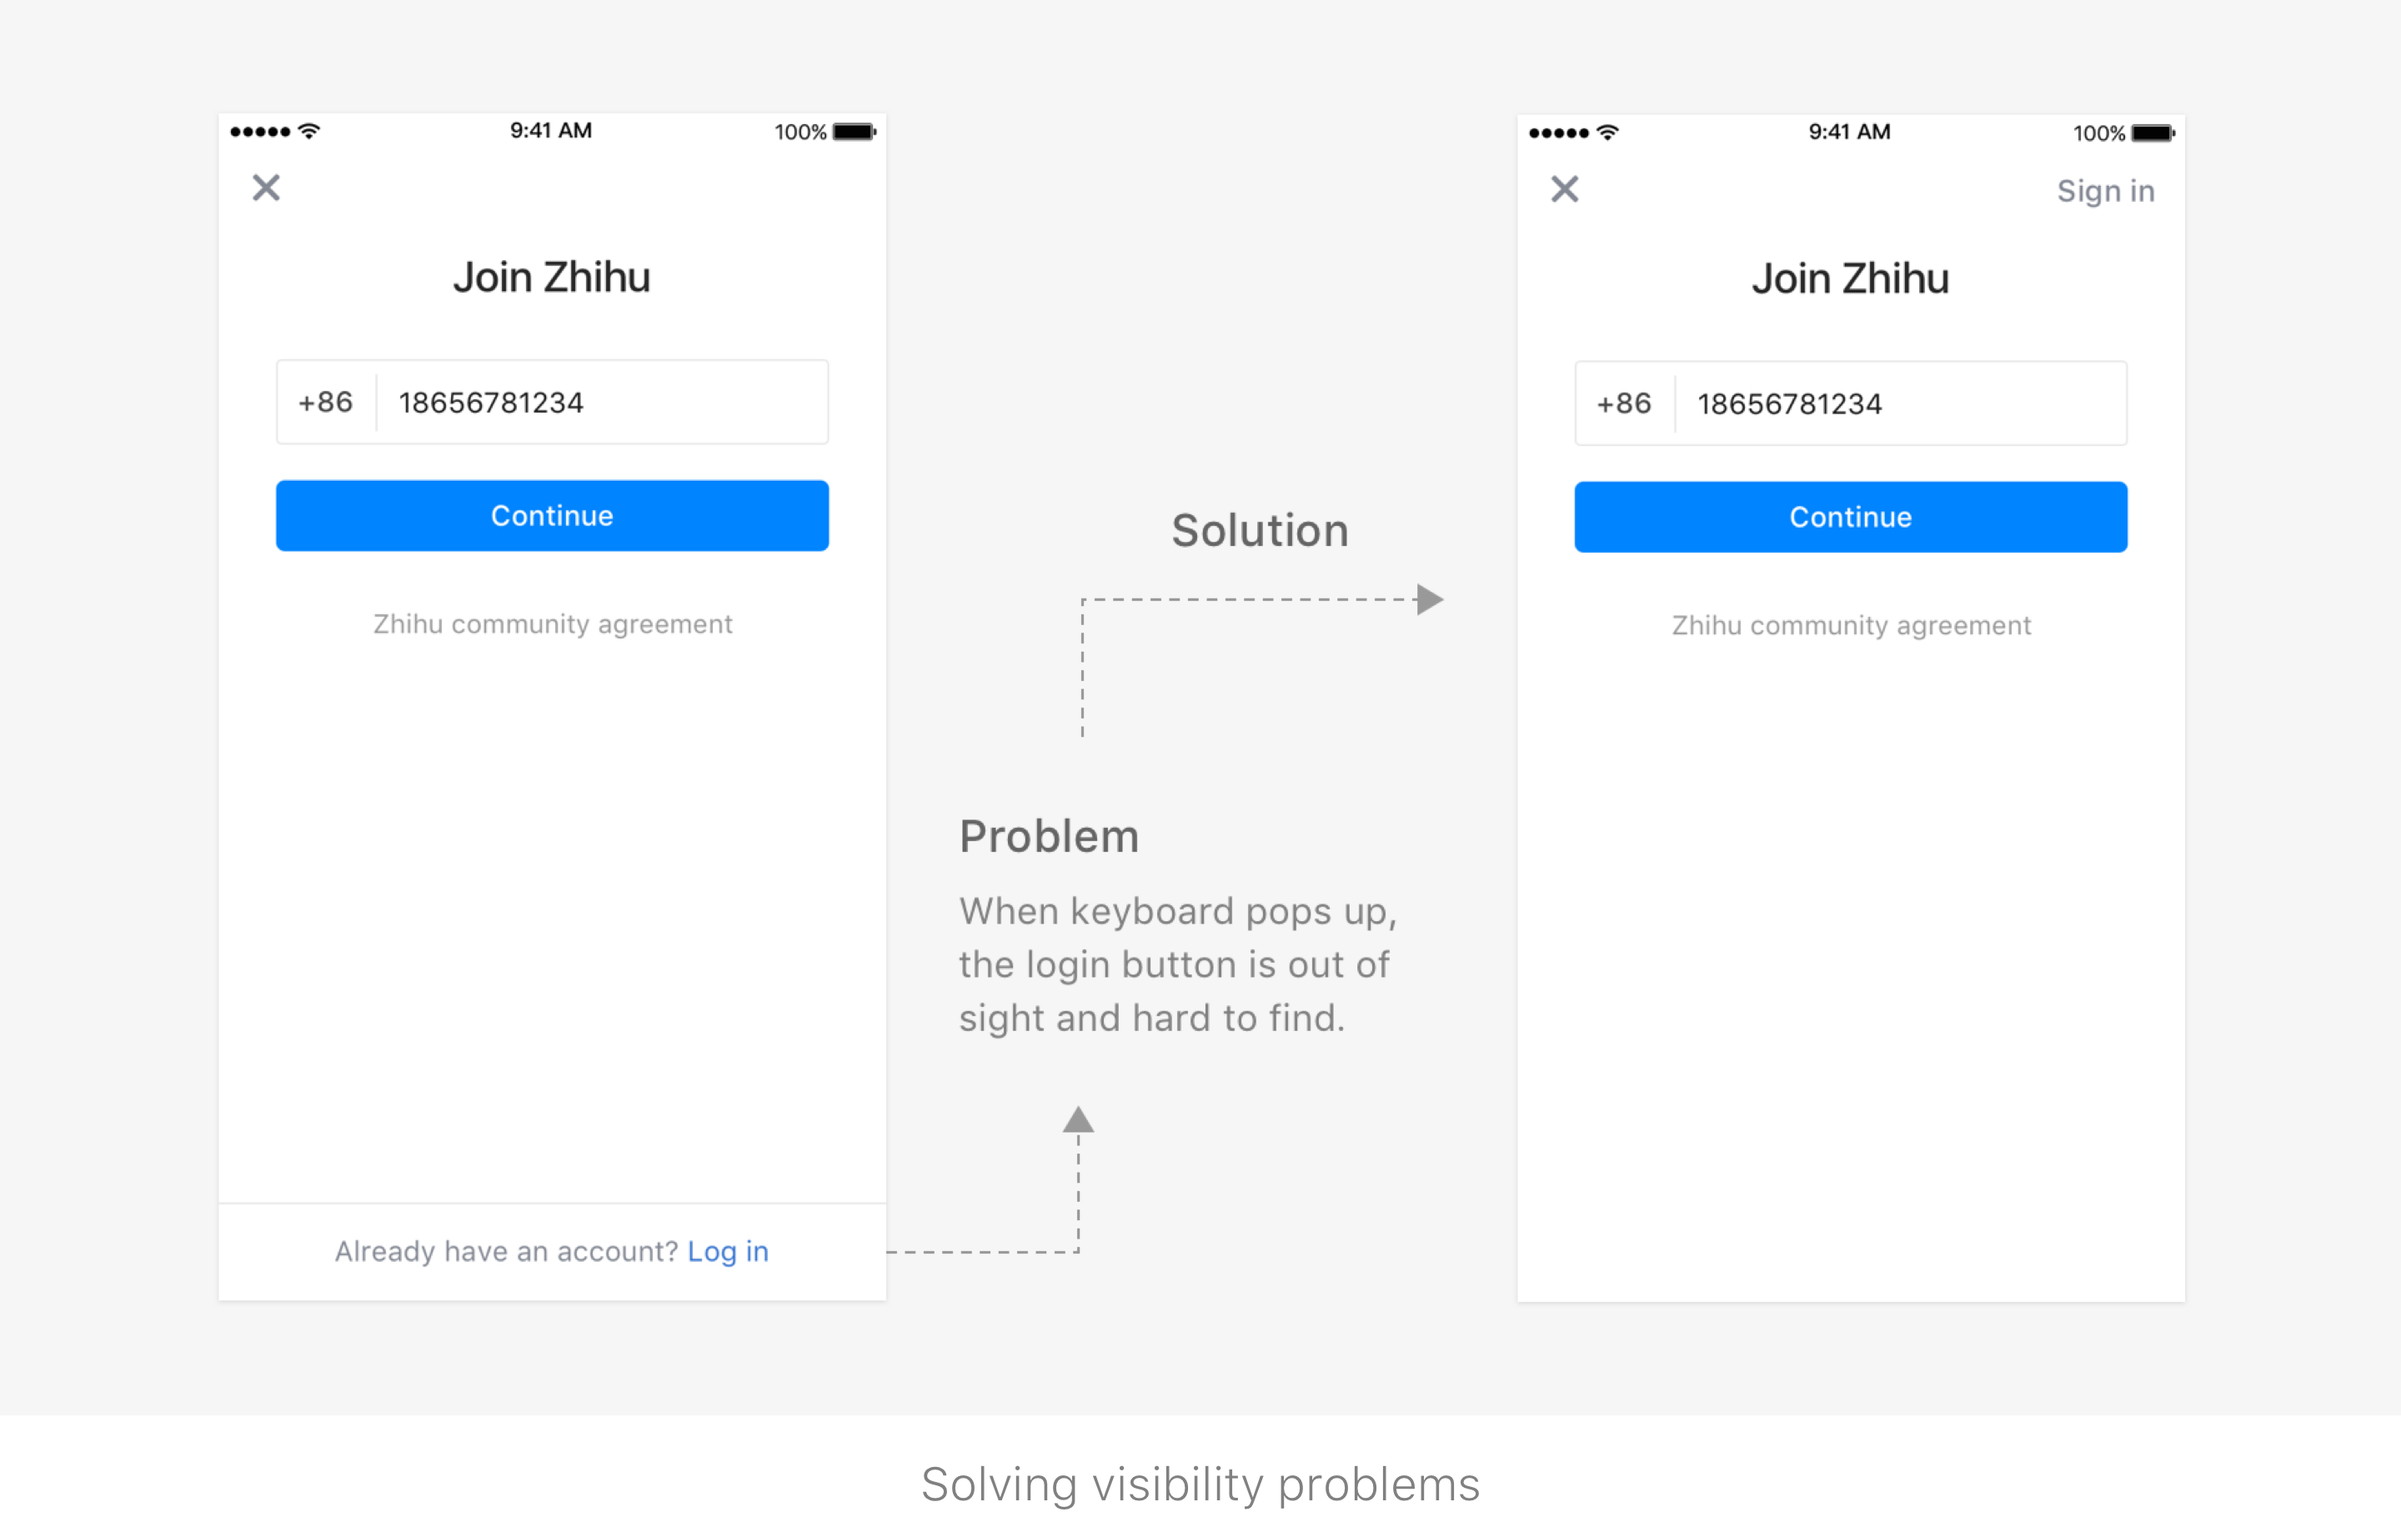
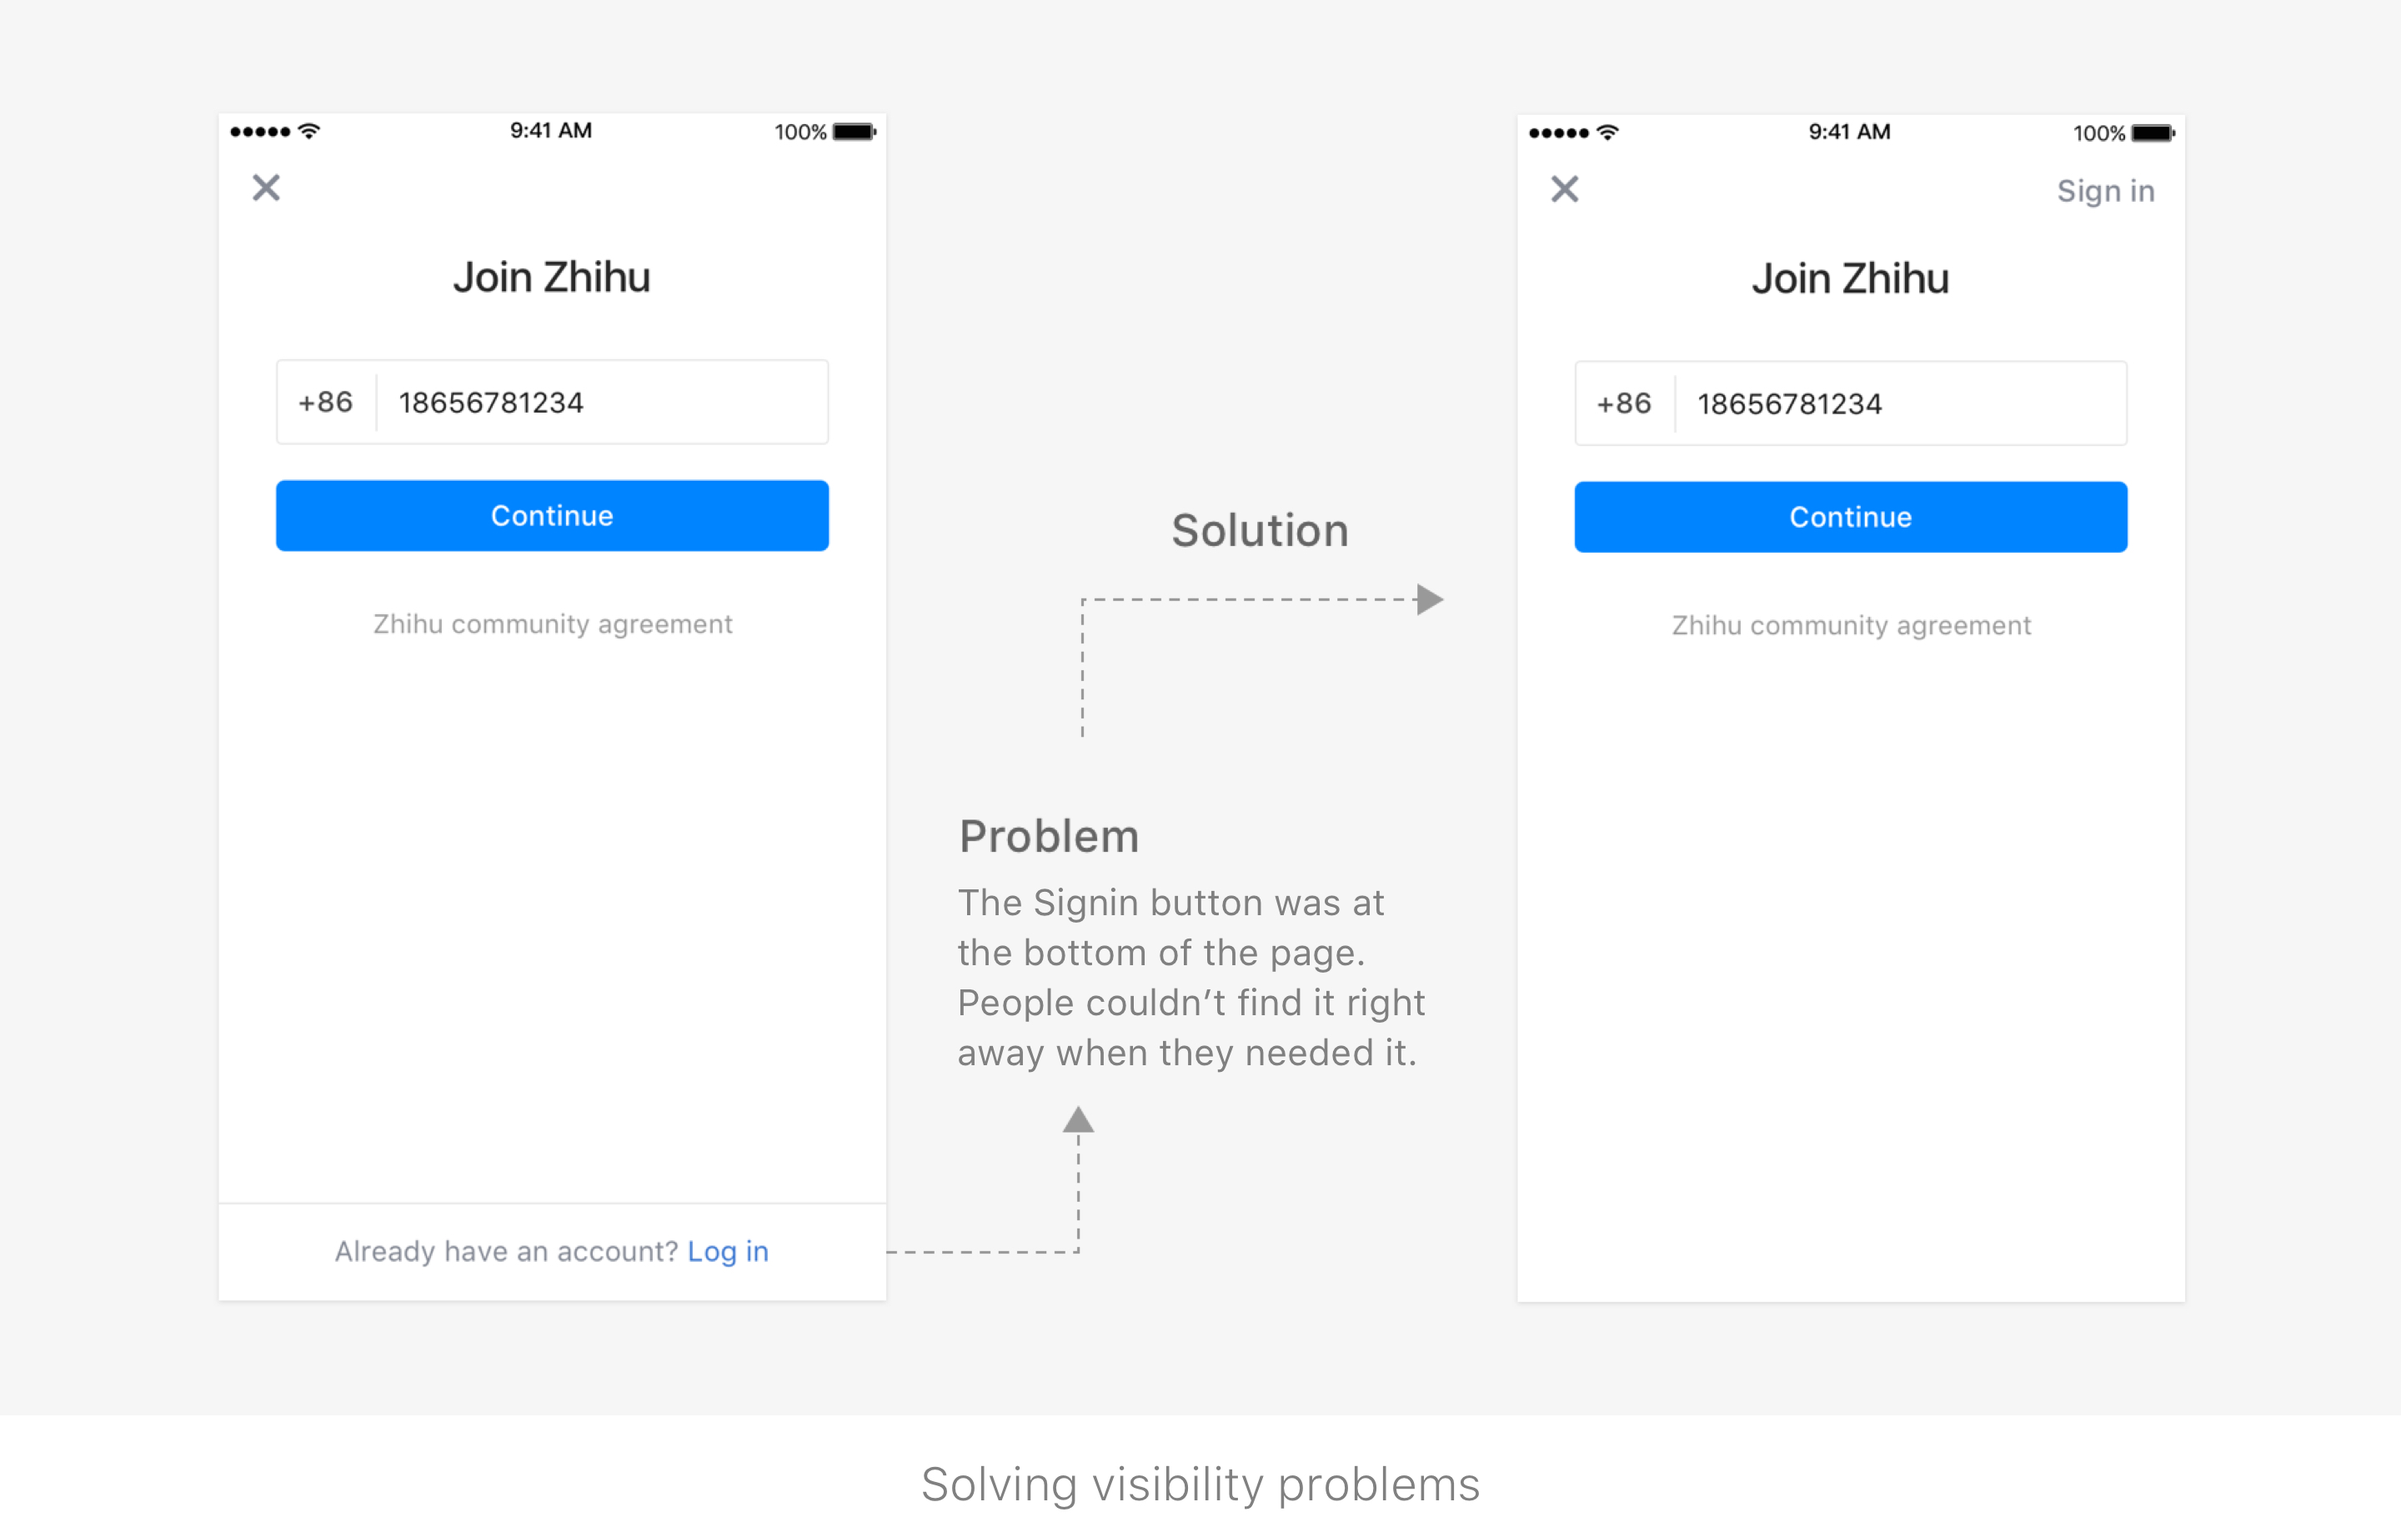
update content

Changed region(s): [[0.4062, 0.5873, 0.5938, 0.711]]

diff --git a/_posts/2018-10-2-signup.md b/_posts/2018-10-2-signup.md
@@ -25,8 +25,20 @@ Before jumping into designing, I analyzed how other apps designed their sign up 
 - Using multi-step sign up has positive impact on increasing conversion rate, because people feel less overwhelmed when the design walks them through the process.
 
 ## Design Decisions
+### Sign up: One Task at One Time
 Informed by the findings in competitive analysis phase, we ran a fast A/B test to validate our assumptions. The result indicated that registration in one step with multiple forms did suffer higher bounce rate compared to registration in multiple steps. Thus we decided to break down sign-up into three steps.
 ![image](/imgs/signup/decision.jpg)
+![image](/imgs/signup/decision1.jpg)
+
+### Sign in: Pull the easiest way out
+SMS verification is the easiest and most popular way for people to sign in, but in existing design, the choice was buried in a bottom sheet. To solve the problem, I decided to use two tabs to put both ways.
+![image](/imgs/signup/decision2.jpg)
+
+### Updating the Entire Flow
+![image](/imgs/signup/flow_chart.jpg)
+
+## Design Solutions
+![image](/imgs/signup/all.jpg)
 
 ### Less Click times
 Previously, there were 5 clicks away to sign up. Now it only needs 2 clicks throughout the process. The multi-step design is more efficient even though the procedure seems longer. People spend less time finishing signing up.
@@ -37,11 +49,8 @@ I used the Complexion Reduction design language to focus on the key task of each
 ![image](/imgs/signup/unified_structure.jpg)
 
 ### Be Mindful of Visibility
-During user testing I realized a detail. The original sign in button was placed on the bottom of the page, but since the keyboard was displayed by default when user entered this page, the button was invisible. In next iteration, I moved the sign in button to the top right corner to make every important elements visible.
+During user testing I realized a problem. The original sign in button was placed on the bottom of the page, so users couldn't find it right away when they needed it. In the next iteration, I moved the sign in button to the top right corner to make every important elements more visible.
 ![image](/imgs/signup/visibility.jpg)
-
-### Consider Every Possible Situation
-![image](/imgs/signup/all.jpg)
 
 ## The Outcome
 Our main metric is the overall conversion rate between opening the page and signing up / signing in successfully. After we launched the new design with A/B test, we found that **the sign up conversion rate increased by 8%**, and **the sign in conversion increased by 32%**. Also, people gave us lots of positive feedback for better experience.

diff --git a/_posts/2018-10-3-profile.md b/_posts/2018-10-3-profile.md
@@ -52,7 +52,8 @@ I defined four key words as the north star of the redesign based on our objectiv
 ## Design Process
 ### Exploring Information Structure
 
-Information structure is like the skeleton of interface. To find out what the best way was to present a person, I firstly **broke existing Profile down into 5 major  modules**.
+Information structure is like the skeleton of interface. To find out how people understand the existing content on Profile, I conducted a quick card sort with 6 users. Based on what I learned from the card sorting session, I **broke existing Profile down into 5 major modules**.
+![image](/imgs/profile/card_sorting.jpg)
 ![image](/imgs/profile/modules.jpg)
 
 My next challenge was **how to re-organize these bones to compose a skeleton that works**. I did a variety of explorations with different combinations and layouts. Also I co-created with and getting feedback from internal stakeholders, from which I found an interesting point—
